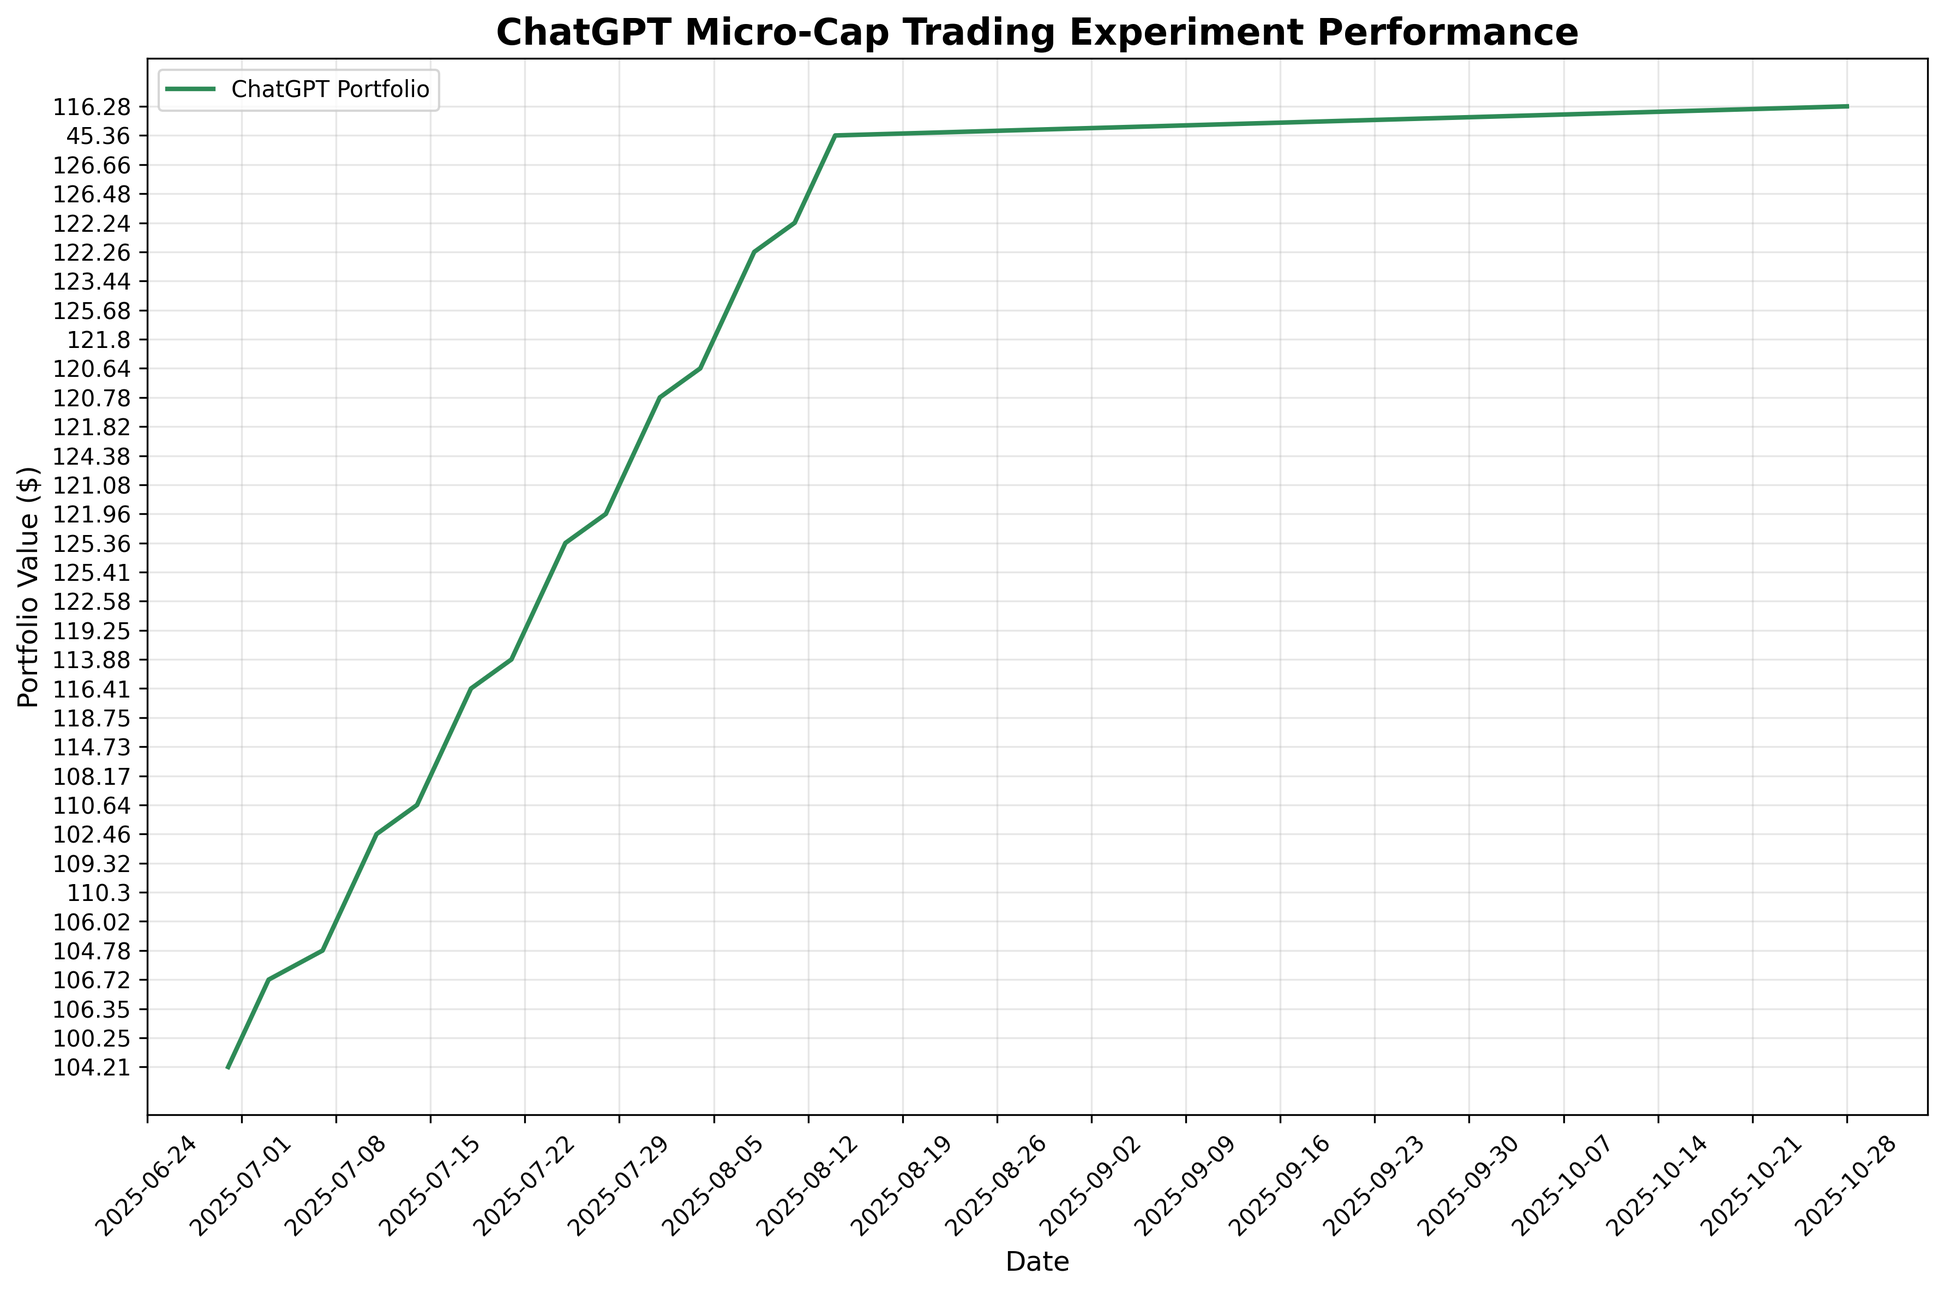
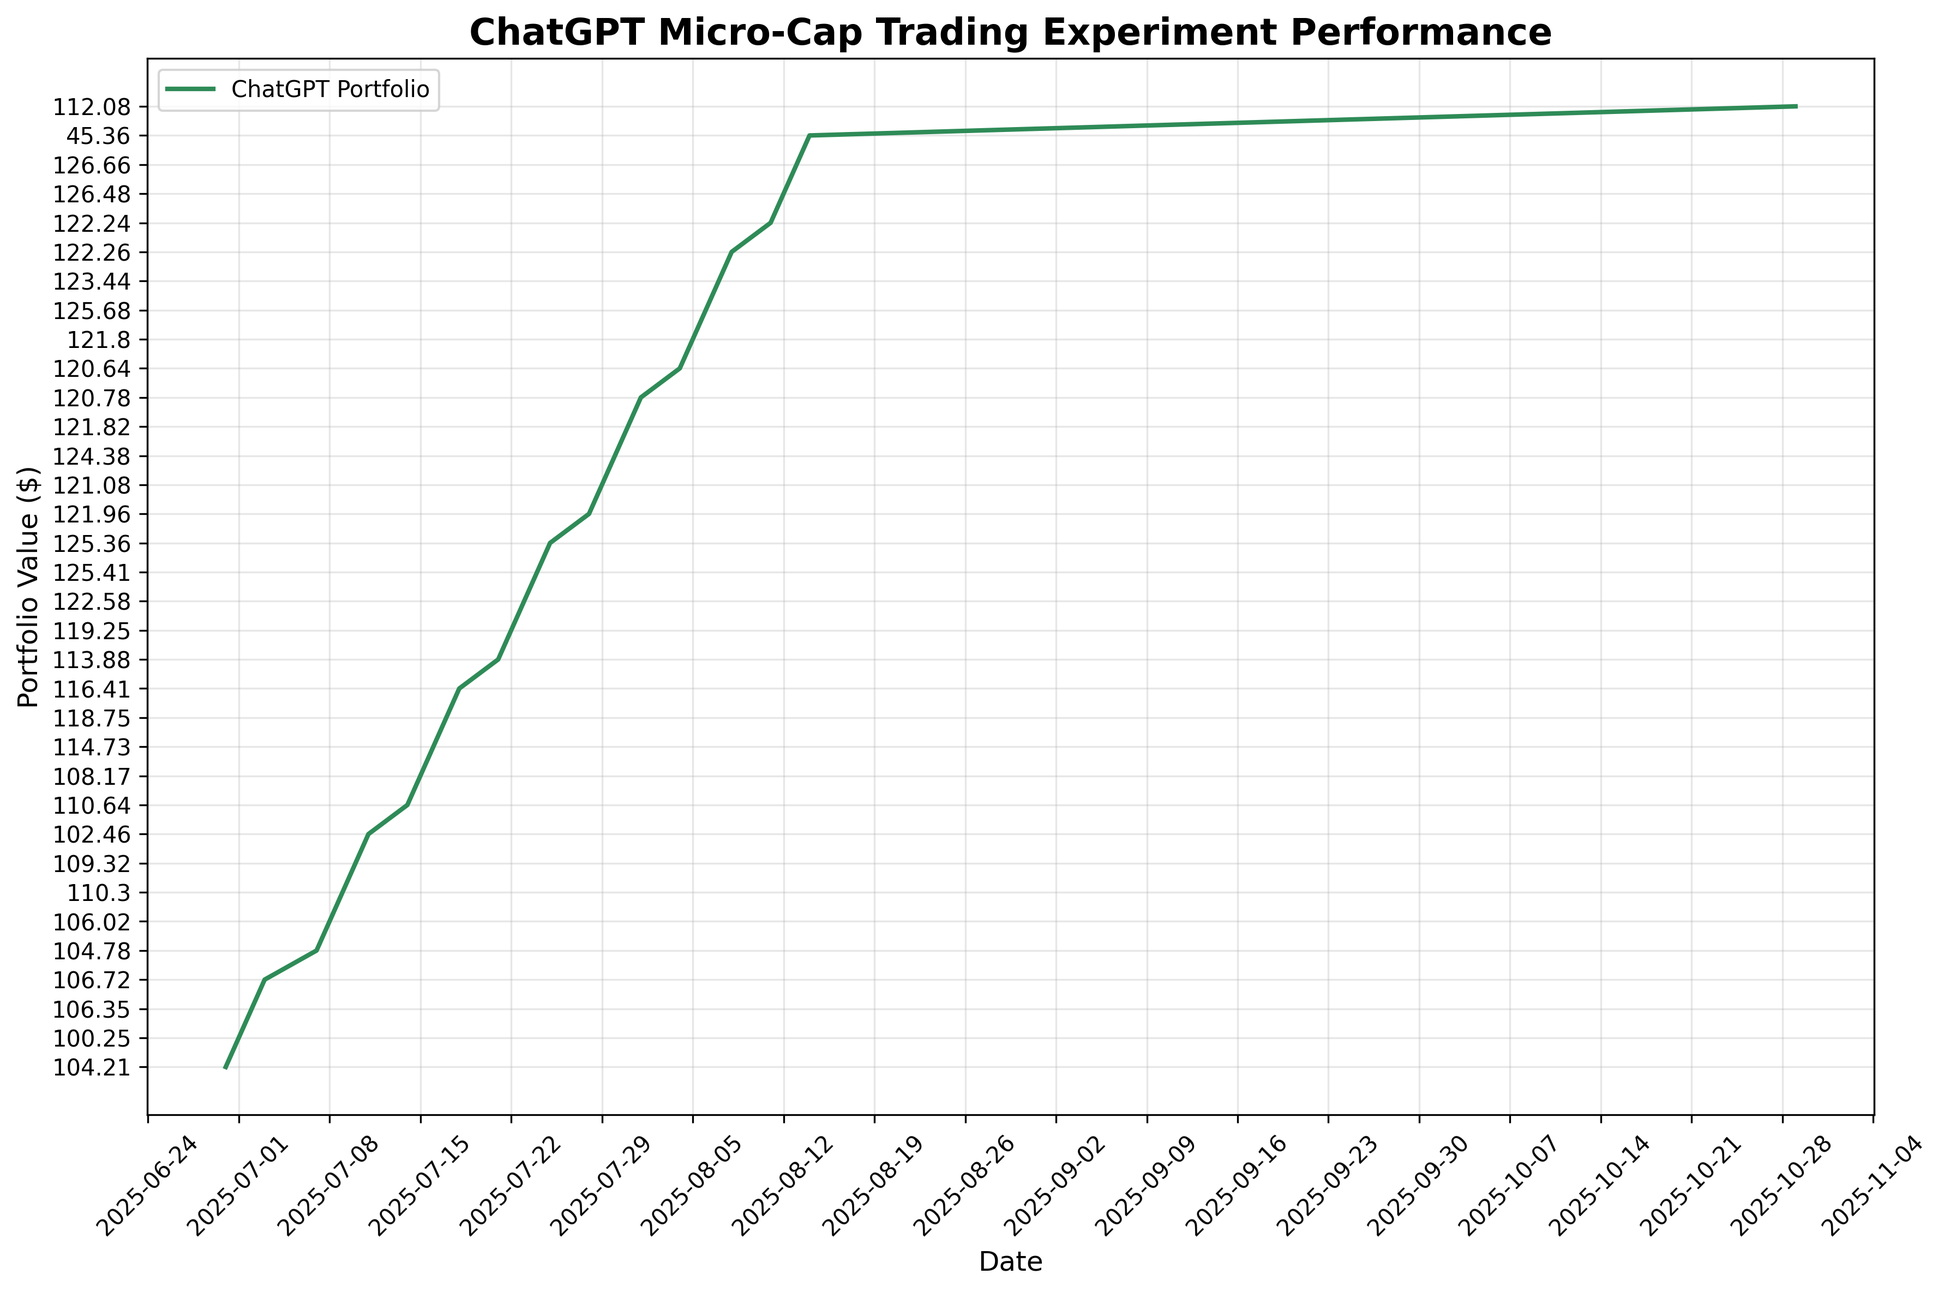
deploy: e15cad030d70fb3fbb51f9df6e22fa70c2f175c0

diff --git a/index.html b/index.html
@@ -105,7 +105,7 @@
                 <div class="stat-label">Total Trades</div>
             </div>
             <div class="stat-card">
-                <div class="stat-value" id="last-updated">2025-10-28</div>
+                <div class="stat-value" id="last-updated">2025-10-29</div>
                 <div class="stat-label">Last Updated</div>
             </div>
         </div>
@@ -160,7 +160,7 @@
     
     <script>
         // Portfolio data
-        const portfolioData = JSON.parse("[{&quot;Date&quot;: &quot;2025-08-11&quot;, &quot;Ticker&quot;: &quot;ABEO&quot;, &quot;Shares&quot;: 4.0, &quot;Buy Price&quot;: 5.77, &quot;Cost Basis&quot;: 23.08, &quot;Stop Loss&quot;: 4.9, &quot;Current Price&quot;: 6.28, &quot;Total Value&quot;: 25.12, &quot;PnL&quot;: 2.04, &quot;Action&quot;: &quot;HOLD&quot;, &quot;Cash Balance&quot;: NaN, &quot;Total Equity&quot;: NaN}, {&quot;Date&quot;: &quot;2025-08-11&quot;, &quot;Ticker&quot;: &quot;ACTU&quot;, &quot;Shares&quot;: 6.0, &quot;Buy Price&quot;: 5.75, &quot;Cost Basis&quot;: 34.5, &quot;Stop Loss&quot;: 4.89, &quot;Current Price&quot;: 8.01, &quot;Total Value&quot;: 48.06, &quot;PnL&quot;: 13.56, &quot;Action&quot;: &quot;HOLD&quot;, &quot;Cash Balance&quot;: NaN, &quot;Total Equity&quot;: NaN}, {&quot;Date&quot;: &quot;2025-08-11&quot;, &quot;Ticker&quot;: &quot;ESPR&quot;, &quot;Shares&quot;: 2.0, &quot;Buy Price&quot;: 1.91, &quot;Cost Basis&quot;: 3.82, &quot;Stop Loss&quot;: 1.6, &quot;Current Price&quot;: 1.85, &quot;Total Value&quot;: 3.7, &quot;PnL&quot;: -0.12, &quot;Action&quot;: &quot;HOLD&quot;, &quot;Cash Balance&quot;: NaN, &quot;Total Equity&quot;: NaN}, {&quot;Date&quot;: &quot;2025-08-11&quot;, &quot;Ticker&quot;: &quot;TOTAL&quot;, &quot;Shares&quot;: NaN, &quot;Buy Price&quot;: NaN, &quot;Cost Basis&quot;: NaN, &quot;Stop Loss&quot;: NaN, &quot;Current Price&quot;: NaN, &quot;Total Value&quot;: 76.88, &quot;PnL&quot;: 15.48, &quot;Action&quot;: NaN, &quot;Cash Balance&quot;: 45.36, &quot;Total Equity&quot;: &quot;122.24&quot;}, {&quot;Date&quot;: &quot;2025-08-12&quot;, &quot;Ticker&quot;: &quot;ABEO&quot;, &quot;Shares&quot;: 4.0, &quot;Buy Price&quot;: 5.77, &quot;Cost Basis&quot;: 23.08, &quot;Stop Loss&quot;: 4.9, &quot;Current Price&quot;: 6.38, &quot;Total Value&quot;: 25.52, &quot;PnL&quot;: 2.44, &quot;Action&quot;: &quot;HOLD&quot;, &quot;Cash Balance&quot;: NaN, &quot;Total Equity&quot;: NaN}, {&quot;Date&quot;: &quot;2025-08-12&quot;, &quot;Ticker&quot;: &quot;ACTU&quot;, &quot;Shares&quot;: 6.0, &quot;Buy Price&quot;: 5.75, &quot;Cost Basis&quot;: 34.5, &quot;Stop Loss&quot;: 4.89, &quot;Current Price&quot;: 8.67, &quot;Total Value&quot;: 52.02, &quot;PnL&quot;: 17.52, &quot;Action&quot;: &quot;HOLD&quot;, &quot;Cash Balance&quot;: NaN, &quot;Total Equity&quot;: NaN}, {&quot;Date&quot;: &quot;2025-08-12&quot;, &quot;Ticker&quot;: &quot;ESPR&quot;, &quot;Shares&quot;: 2.0, &quot;Buy Price&quot;: 1.91, &quot;Cost Basis&quot;: 3.82, &quot;Stop Loss&quot;: 1.6, &quot;Current Price&quot;: 1.79, &quot;Total Value&quot;: 3.58, &quot;PnL&quot;: -0.24, &quot;Action&quot;: &quot;HOLD&quot;, &quot;Cash Balance&quot;: NaN, &quot;Total Equity&quot;: NaN}, {&quot;Date&quot;: &quot;2025-08-12&quot;, &quot;Ticker&quot;: &quot;TOTAL&quot;, &quot;Shares&quot;: NaN, &quot;Buy Price&quot;: NaN, &quot;Cost Basis&quot;: NaN, &quot;Stop Loss&quot;: NaN, &quot;Current Price&quot;: NaN, &quot;Total Value&quot;: 81.12, &quot;PnL&quot;: 19.72, &quot;Action&quot;: NaN, &quot;Cash Balance&quot;: 45.36, &quot;Total Equity&quot;: &quot;126.48&quot;}, {&quot;Date&quot;: &quot;2025-08-13&quot;, &quot;Ticker&quot;: &quot;ABEO&quot;, &quot;Shares&quot;: 4.0, &quot;Buy Price&quot;: 5.77, &quot;Cost Basis&quot;: 23.08, &quot;Stop Loss&quot;: 4.9, &quot;Current Price&quot;: 6.56, &quot;Total Value&quot;: 26.24, &quot;PnL&quot;: 3.16, &quot;Action&quot;: &quot;HOLD&quot;, &quot;Cash Balance&quot;: NaN, &quot;Total Equity&quot;: NaN}, {&quot;Date&quot;: &quot;2025-08-13&quot;, &quot;Ticker&quot;: &quot;ACTU&quot;, &quot;Shares&quot;: 6.0, &quot;Buy Price&quot;: 5.75, &quot;Cost Basis&quot;: 34.5, &quot;Stop Loss&quot;: 4.89, &quot;Current Price&quot;: 8.53, &quot;Total Value&quot;: 51.18, &quot;PnL&quot;: 16.68, &quot;Action&quot;: &quot;HOLD&quot;, &quot;Cash Balance&quot;: NaN, &quot;Total Equity&quot;: NaN}, {&quot;Date&quot;: &quot;2025-08-13&quot;, &quot;Ticker&quot;: &quot;ESPR&quot;, &quot;Shares&quot;: 2.0, &quot;Buy Price&quot;: 1.91, &quot;Cost Basis&quot;: 3.82, &quot;Stop Loss&quot;: 1.6, &quot;Current Price&quot;: 1.94, &quot;Total Value&quot;: 3.88, &quot;PnL&quot;: 0.06, &quot;Action&quot;: &quot;HOLD&quot;, &quot;Cash Balance&quot;: NaN, &quot;Total Equity&quot;: NaN}, {&quot;Date&quot;: &quot;2025-08-13&quot;, &quot;Ticker&quot;: &quot;TOTAL&quot;, &quot;Shares&quot;: NaN, &quot;Buy Price&quot;: NaN, &quot;Cost Basis&quot;: NaN, &quot;Stop Loss&quot;: NaN, &quot;Current Price&quot;: NaN, &quot;Total Value&quot;: 81.3, &quot;PnL&quot;: 19.9, &quot;Action&quot;: NaN, &quot;Cash Balance&quot;: 45.36, &quot;Total Equity&quot;: &quot;126.66&quot;}, {&quot;Date&quot;: &quot;2025-08-14&quot;, &quot;Ticker&quot;: &quot;ABEO&quot;, &quot;Shares&quot;: 4.0, &quot;Buy Price&quot;: 5.77, &quot;Cost Basis&quot;: 23.08, &quot;Stop Loss&quot;: 4.9, &quot;Current Price&quot;: NaN, &quot;Total Value&quot;: NaN, &quot;PnL&quot;: NaN, &quot;Action&quot;: &quot;NO DATA&quot;, &quot;Cash Balance&quot;: NaN, &quot;Total Equity&quot;: NaN}, {&quot;Date&quot;: &quot;2025-08-14&quot;, &quot;Ticker&quot;: &quot;ACTU&quot;, &quot;Shares&quot;: 6.0, &quot;Buy Price&quot;: 5.75, &quot;Cost Basis&quot;: 34.5, &quot;Stop Loss&quot;: 4.89, &quot;Current Price&quot;: NaN, &quot;Total Value&quot;: NaN, &quot;PnL&quot;: NaN, &quot;Action&quot;: &quot;NO DATA&quot;, &quot;Cash Balance&quot;: NaN, &quot;Total Equity&quot;: NaN}, {&quot;Date&quot;: &quot;2025-08-14&quot;, &quot;Ticker&quot;: &quot;ESPR&quot;, &quot;Shares&quot;: 2.0, &quot;Buy Price&quot;: 1.91, &quot;Cost Basis&quot;: 3.82, &quot;Stop Loss&quot;: 1.6, &quot;Current Price&quot;: NaN, &quot;Total Value&quot;: NaN, &quot;PnL&quot;: NaN, &quot;Action&quot;: &quot;NO DATA&quot;, &quot;Cash Balance&quot;: NaN, &quot;Total Equity&quot;: NaN}, {&quot;Date&quot;: &quot;2025-08-14&quot;, &quot;Ticker&quot;: &quot;TOTAL&quot;, &quot;Shares&quot;: NaN, &quot;Buy Price&quot;: NaN, &quot;Cost Basis&quot;: NaN, &quot;Stop Loss&quot;: NaN, &quot;Current Price&quot;: NaN, &quot;Total Value&quot;: 0.0, &quot;PnL&quot;: 0.0, &quot;Action&quot;: NaN, &quot;Cash Balance&quot;: 45.36, &quot;Total Equity&quot;: &quot;45.36&quot;}, {&quot;Date&quot;: &quot;2025-10-28&quot;, &quot;Ticker&quot;: &quot;ABEO&quot;, &quot;Shares&quot;: 4.0, &quot;Buy Price&quot;: 5.77, &quot;Cost Basis&quot;: 23.08, &quot;Stop Loss&quot;: 4.9, &quot;Current Price&quot;: 5.49, &quot;Total Value&quot;: 21.96, &quot;PnL&quot;: -1.12, &quot;Action&quot;: &quot;HOLD&quot;, &quot;Cash Balance&quot;: NaN, &quot;Total Equity&quot;: NaN}, {&quot;Date&quot;: &quot;2025-10-28&quot;, &quot;Ticker&quot;: &quot;ACTU&quot;, &quot;Shares&quot;: 6.0, &quot;Buy Price&quot;: 5.75, &quot;Cost Basis&quot;: 34.5, &quot;Stop Loss&quot;: 4.89, &quot;Current Price&quot;: 7.14, &quot;Total Value&quot;: 42.84, &quot;PnL&quot;: 8.34, &quot;Action&quot;: &quot;HOLD&quot;, &quot;Cash Balance&quot;: NaN, &quot;Total Equity&quot;: NaN}, {&quot;Date&quot;: &quot;2025-10-28&quot;, &quot;Ticker&quot;: &quot;ESPR&quot;, &quot;Shares&quot;: 2.0, &quot;Buy Price&quot;: 1.91, &quot;Cost Basis&quot;: 3.82, &quot;Stop Loss&quot;: 1.6, &quot;Current Price&quot;: 3.06, &quot;Total Value&quot;: 6.12, &quot;PnL&quot;: 2.3, &quot;Action&quot;: &quot;HOLD&quot;, &quot;Cash Balance&quot;: NaN, &quot;Total Equity&quot;: NaN}, {&quot;Date&quot;: &quot;2025-10-28&quot;, &quot;Ticker&quot;: &quot;TOTAL&quot;, &quot;Shares&quot;: NaN, &quot;Buy Price&quot;: NaN, &quot;Cost Basis&quot;: NaN, &quot;Stop Loss&quot;: NaN, &quot;Current Price&quot;: NaN, &quot;Total Value&quot;: 70.92, &quot;PnL&quot;: 9.52, &quot;Action&quot;: NaN, &quot;Cash Balance&quot;: 45.36, &quot;Total Equity&quot;: &quot;116.28&quot;}]");
+        const portfolioData = JSON.parse("[{&quot;Date&quot;: &quot;2025-08-11&quot;, &quot;Ticker&quot;: &quot;ABEO&quot;, &quot;Shares&quot;: 4.0, &quot;Buy Price&quot;: 5.77, &quot;Cost Basis&quot;: 23.08, &quot;Stop Loss&quot;: 4.9, &quot;Current Price&quot;: 6.28, &quot;Total Value&quot;: 25.12, &quot;PnL&quot;: 2.04, &quot;Action&quot;: &quot;HOLD&quot;, &quot;Cash Balance&quot;: NaN, &quot;Total Equity&quot;: NaN}, {&quot;Date&quot;: &quot;2025-08-11&quot;, &quot;Ticker&quot;: &quot;ACTU&quot;, &quot;Shares&quot;: 6.0, &quot;Buy Price&quot;: 5.75, &quot;Cost Basis&quot;: 34.5, &quot;Stop Loss&quot;: 4.89, &quot;Current Price&quot;: 8.01, &quot;Total Value&quot;: 48.06, &quot;PnL&quot;: 13.56, &quot;Action&quot;: &quot;HOLD&quot;, &quot;Cash Balance&quot;: NaN, &quot;Total Equity&quot;: NaN}, {&quot;Date&quot;: &quot;2025-08-11&quot;, &quot;Ticker&quot;: &quot;ESPR&quot;, &quot;Shares&quot;: 2.0, &quot;Buy Price&quot;: 1.91, &quot;Cost Basis&quot;: 3.82, &quot;Stop Loss&quot;: 1.6, &quot;Current Price&quot;: 1.85, &quot;Total Value&quot;: 3.7, &quot;PnL&quot;: -0.12, &quot;Action&quot;: &quot;HOLD&quot;, &quot;Cash Balance&quot;: NaN, &quot;Total Equity&quot;: NaN}, {&quot;Date&quot;: &quot;2025-08-11&quot;, &quot;Ticker&quot;: &quot;TOTAL&quot;, &quot;Shares&quot;: NaN, &quot;Buy Price&quot;: NaN, &quot;Cost Basis&quot;: NaN, &quot;Stop Loss&quot;: NaN, &quot;Current Price&quot;: NaN, &quot;Total Value&quot;: 76.88, &quot;PnL&quot;: 15.48, &quot;Action&quot;: NaN, &quot;Cash Balance&quot;: 45.36, &quot;Total Equity&quot;: &quot;122.24&quot;}, {&quot;Date&quot;: &quot;2025-08-12&quot;, &quot;Ticker&quot;: &quot;ABEO&quot;, &quot;Shares&quot;: 4.0, &quot;Buy Price&quot;: 5.77, &quot;Cost Basis&quot;: 23.08, &quot;Stop Loss&quot;: 4.9, &quot;Current Price&quot;: 6.38, &quot;Total Value&quot;: 25.52, &quot;PnL&quot;: 2.44, &quot;Action&quot;: &quot;HOLD&quot;, &quot;Cash Balance&quot;: NaN, &quot;Total Equity&quot;: NaN}, {&quot;Date&quot;: &quot;2025-08-12&quot;, &quot;Ticker&quot;: &quot;ACTU&quot;, &quot;Shares&quot;: 6.0, &quot;Buy Price&quot;: 5.75, &quot;Cost Basis&quot;: 34.5, &quot;Stop Loss&quot;: 4.89, &quot;Current Price&quot;: 8.67, &quot;Total Value&quot;: 52.02, &quot;PnL&quot;: 17.52, &quot;Action&quot;: &quot;HOLD&quot;, &quot;Cash Balance&quot;: NaN, &quot;Total Equity&quot;: NaN}, {&quot;Date&quot;: &quot;2025-08-12&quot;, &quot;Ticker&quot;: &quot;ESPR&quot;, &quot;Shares&quot;: 2.0, &quot;Buy Price&quot;: 1.91, &quot;Cost Basis&quot;: 3.82, &quot;Stop Loss&quot;: 1.6, &quot;Current Price&quot;: 1.79, &quot;Total Value&quot;: 3.58, &quot;PnL&quot;: -0.24, &quot;Action&quot;: &quot;HOLD&quot;, &quot;Cash Balance&quot;: NaN, &quot;Total Equity&quot;: NaN}, {&quot;Date&quot;: &quot;2025-08-12&quot;, &quot;Ticker&quot;: &quot;TOTAL&quot;, &quot;Shares&quot;: NaN, &quot;Buy Price&quot;: NaN, &quot;Cost Basis&quot;: NaN, &quot;Stop Loss&quot;: NaN, &quot;Current Price&quot;: NaN, &quot;Total Value&quot;: 81.12, &quot;PnL&quot;: 19.72, &quot;Action&quot;: NaN, &quot;Cash Balance&quot;: 45.36, &quot;Total Equity&quot;: &quot;126.48&quot;}, {&quot;Date&quot;: &quot;2025-08-13&quot;, &quot;Ticker&quot;: &quot;ABEO&quot;, &quot;Shares&quot;: 4.0, &quot;Buy Price&quot;: 5.77, &quot;Cost Basis&quot;: 23.08, &quot;Stop Loss&quot;: 4.9, &quot;Current Price&quot;: 6.56, &quot;Total Value&quot;: 26.24, &quot;PnL&quot;: 3.16, &quot;Action&quot;: &quot;HOLD&quot;, &quot;Cash Balance&quot;: NaN, &quot;Total Equity&quot;: NaN}, {&quot;Date&quot;: &quot;2025-08-13&quot;, &quot;Ticker&quot;: &quot;ACTU&quot;, &quot;Shares&quot;: 6.0, &quot;Buy Price&quot;: 5.75, &quot;Cost Basis&quot;: 34.5, &quot;Stop Loss&quot;: 4.89, &quot;Current Price&quot;: 8.53, &quot;Total Value&quot;: 51.18, &quot;PnL&quot;: 16.68, &quot;Action&quot;: &quot;HOLD&quot;, &quot;Cash Balance&quot;: NaN, &quot;Total Equity&quot;: NaN}, {&quot;Date&quot;: &quot;2025-08-13&quot;, &quot;Ticker&quot;: &quot;ESPR&quot;, &quot;Shares&quot;: 2.0, &quot;Buy Price&quot;: 1.91, &quot;Cost Basis&quot;: 3.82, &quot;Stop Loss&quot;: 1.6, &quot;Current Price&quot;: 1.94, &quot;Total Value&quot;: 3.88, &quot;PnL&quot;: 0.06, &quot;Action&quot;: &quot;HOLD&quot;, &quot;Cash Balance&quot;: NaN, &quot;Total Equity&quot;: NaN}, {&quot;Date&quot;: &quot;2025-08-13&quot;, &quot;Ticker&quot;: &quot;TOTAL&quot;, &quot;Shares&quot;: NaN, &quot;Buy Price&quot;: NaN, &quot;Cost Basis&quot;: NaN, &quot;Stop Loss&quot;: NaN, &quot;Current Price&quot;: NaN, &quot;Total Value&quot;: 81.3, &quot;PnL&quot;: 19.9, &quot;Action&quot;: NaN, &quot;Cash Balance&quot;: 45.36, &quot;Total Equity&quot;: &quot;126.66&quot;}, {&quot;Date&quot;: &quot;2025-08-14&quot;, &quot;Ticker&quot;: &quot;ABEO&quot;, &quot;Shares&quot;: 4.0, &quot;Buy Price&quot;: 5.77, &quot;Cost Basis&quot;: 23.08, &quot;Stop Loss&quot;: 4.9, &quot;Current Price&quot;: NaN, &quot;Total Value&quot;: NaN, &quot;PnL&quot;: NaN, &quot;Action&quot;: &quot;NO DATA&quot;, &quot;Cash Balance&quot;: NaN, &quot;Total Equity&quot;: NaN}, {&quot;Date&quot;: &quot;2025-08-14&quot;, &quot;Ticker&quot;: &quot;ACTU&quot;, &quot;Shares&quot;: 6.0, &quot;Buy Price&quot;: 5.75, &quot;Cost Basis&quot;: 34.5, &quot;Stop Loss&quot;: 4.89, &quot;Current Price&quot;: NaN, &quot;Total Value&quot;: NaN, &quot;PnL&quot;: NaN, &quot;Action&quot;: &quot;NO DATA&quot;, &quot;Cash Balance&quot;: NaN, &quot;Total Equity&quot;: NaN}, {&quot;Date&quot;: &quot;2025-08-14&quot;, &quot;Ticker&quot;: &quot;ESPR&quot;, &quot;Shares&quot;: 2.0, &quot;Buy Price&quot;: 1.91, &quot;Cost Basis&quot;: 3.82, &quot;Stop Loss&quot;: 1.6, &quot;Current Price&quot;: NaN, &quot;Total Value&quot;: NaN, &quot;PnL&quot;: NaN, &quot;Action&quot;: &quot;NO DATA&quot;, &quot;Cash Balance&quot;: NaN, &quot;Total Equity&quot;: NaN}, {&quot;Date&quot;: &quot;2025-08-14&quot;, &quot;Ticker&quot;: &quot;TOTAL&quot;, &quot;Shares&quot;: NaN, &quot;Buy Price&quot;: NaN, &quot;Cost Basis&quot;: NaN, &quot;Stop Loss&quot;: NaN, &quot;Current Price&quot;: NaN, &quot;Total Value&quot;: 0.0, &quot;PnL&quot;: 0.0, &quot;Action&quot;: NaN, &quot;Cash Balance&quot;: 45.36, &quot;Total Equity&quot;: &quot;45.36&quot;}, {&quot;Date&quot;: &quot;2025-10-29&quot;, &quot;Ticker&quot;: &quot;ABEO&quot;, &quot;Shares&quot;: 4.0, &quot;Buy Price&quot;: 5.77, &quot;Cost Basis&quot;: 23.08, &quot;Stop Loss&quot;: 4.9, &quot;Current Price&quot;: 5.11, &quot;Total Value&quot;: 20.44, &quot;PnL&quot;: -2.64, &quot;Action&quot;: &quot;HOLD&quot;, &quot;Cash Balance&quot;: NaN, &quot;Total Equity&quot;: NaN}, {&quot;Date&quot;: &quot;2025-10-29&quot;, &quot;Ticker&quot;: &quot;ACTU&quot;, &quot;Shares&quot;: 6.0, &quot;Buy Price&quot;: 5.75, &quot;Cost Basis&quot;: 34.5, &quot;Stop Loss&quot;: 4.89, &quot;Current Price&quot;: 6.74, &quot;Total Value&quot;: 40.44, &quot;PnL&quot;: 5.94, &quot;Action&quot;: &quot;HOLD&quot;, &quot;Cash Balance&quot;: NaN, &quot;Total Equity&quot;: NaN}, {&quot;Date&quot;: &quot;2025-10-29&quot;, &quot;Ticker&quot;: &quot;ESPR&quot;, &quot;Shares&quot;: 2.0, &quot;Buy Price&quot;: 1.91, &quot;Cost Basis&quot;: 3.82, &quot;Stop Loss&quot;: 1.6, &quot;Current Price&quot;: 2.92, &quot;Total Value&quot;: 5.84, &quot;PnL&quot;: 2.02, &quot;Action&quot;: &quot;HOLD&quot;, &quot;Cash Balance&quot;: NaN, &quot;Total Equity&quot;: NaN}, {&quot;Date&quot;: &quot;2025-10-29&quot;, &quot;Ticker&quot;: &quot;TOTAL&quot;, &quot;Shares&quot;: NaN, &quot;Buy Price&quot;: NaN, &quot;Cost Basis&quot;: NaN, &quot;Stop Loss&quot;: NaN, &quot;Current Price&quot;: NaN, &quot;Total Value&quot;: 66.72, &quot;PnL&quot;: 5.32, &quot;Action&quot;: NaN, &quot;Cash Balance&quot;: 45.36, &quot;Total Equity&quot;: &quot;112.08&quot;}]");
         const tradeData = JSON.parse("[{&quot;Date&quot;: &quot;2025-07-07&quot;, &quot;Ticker&quot;: &quot;CSAI&quot;, &quot;Shares Bought&quot;: NaN, &quot;Buy Price&quot;: NaN, &quot;Cost Basis&quot;: 1.9, &quot;PnL&quot;: 5.7, &quot;Reason&quot;: &quot;MANUAL SELL - Rotated into AZTR&quot;, &quot;Shares Sold&quot;: 15.0, &quot;Sell Price&quot;: 2.28}, {&quot;Date&quot;: &quot;2025-07-08&quot;, &quot;Ticker&quot;: &quot;IINN&quot;, &quot;Shares Bought&quot;: 20.0, &quot;Buy Price&quot;: 1.5, &quot;Cost Basis&quot;: 30.0, &quot;PnL&quot;: 0.0, &quot;Reason&quot;: &quot;MANUAL BUY - New position&quot;, &quot;Shares Sold&quot;: NaN, &quot;Sell Price&quot;: NaN}, {&quot;Date&quot;: &quot;2025-07-21&quot;, &quot;Ticker&quot;: &quot;CADL&quot;, &quot;Shares Bought&quot;: NaN, &quot;Buy Price&quot;: NaN, &quot;Cost Basis&quot;: 25.2, &quot;PnL&quot;: 8.5, &quot;Reason&quot;: &quot;MANUAL SELL - GAIN CAPITAL FOR ACTU&quot;, &quot;Shares Sold&quot;: 5.0, &quot;Sell Price&quot;: 6.59}, {&quot;Date&quot;: &quot;2025-07-21&quot;, &quot;Ticker&quot;: &quot;ACTU&quot;, &quot;Shares Bought&quot;: 6.0, &quot;Buy Price&quot;: 5.75, &quot;Cost Basis&quot;: 34.5, &quot;PnL&quot;: 0.0, &quot;Reason&quot;: &quot;MANUAL BUY - New position&quot;, &quot;Shares Sold&quot;: NaN, &quot;Sell Price&quot;: NaN}, {&quot;Date&quot;: &quot;2025-07-28&quot;, &quot;Ticker&quot;: &quot;IINN&quot;, &quot;Shares Bought&quot;: NaN, &quot;Buy Price&quot;: NaN, &quot;Cost Basis&quot;: 9.0, &quot;PnL&quot;: -0.5400000000000009, &quot;Reason&quot;: &quot;MANUAL SELL - POSITION REDUCTION&quot;, &quot;Shares Sold&quot;: 6.0, &quot;Sell Price&quot;: 1.41}, {&quot;Date&quot;: &quot;2025-07-29&quot;, &quot;Ticker&quot;: &quot;AZTR&quot;, &quot;Shares Bought&quot;: NaN, &quot;Buy Price&quot;: NaN, &quot;Cost Basis&quot;: 13.75, &quot;PnL&quot;: -2.75, &quot;Reason&quot;: &quot;MANUAL SELL - DILUTION RISK&quot;, &quot;Shares Sold&quot;: 55.0, &quot;Sell Price&quot;: 0.2}, {&quot;Date&quot;: &quot;2025-08-01&quot;, &quot;Ticker&quot;: &quot;IINN&quot;, &quot;Shares Bought&quot;: 2.0, &quot;Buy Price&quot;: 1.74, &quot;Cost Basis&quot;: 3.48, &quot;PnL&quot;: 0.0, &quot;Reason&quot;: &quot;MANUAL BUY - New position&quot;, &quot;Shares Sold&quot;: NaN, &quot;Sell Price&quot;: NaN}, {&quot;Date&quot;: &quot;2025-08-01&quot;, &quot;Ticker&quot;: &quot;ABEO&quot;, &quot;Shares Bought&quot;: NaN, &quot;Buy Price&quot;: NaN, &quot;Cost Basis&quot;: 11.54, &quot;PnL&quot;: 1.200000000000001, &quot;Reason&quot;: &quot;MANUAL SELL - TRIM AFTER SUPPORT LOSS&quot;, &quot;Shares Sold&quot;: 2.0, &quot;Sell Price&quot;: 6.37}, {&quot;Date&quot;: &quot;2025-08-07&quot;, &quot;Ticker&quot;: &quot;ESPR&quot;, &quot;Shares Bought&quot;: 2.0, &quot;Buy Price&quot;: 1.91, &quot;Cost Basis&quot;: 3.82, &quot;PnL&quot;: 0.0, &quot;Reason&quot;: &quot;MANUAL BUY - New position&quot;, &quot;Shares Sold&quot;: NaN, &quot;Sell Price&quot;: NaN}, {&quot;Date&quot;: &quot;2025-08-08&quot;, &quot;Ticker&quot;: &quot;IINN&quot;, &quot;Shares Bought&quot;: NaN, &quot;Buy Price&quot;: NaN, &quot;Cost Basis&quot;: 1.5, &quot;PnL&quot;: -6.4, &quot;Reason&quot;: &quot;AUTOMATED SELL - STOPLOSS TRIGGERED&quot;, &quot;Shares Sold&quot;: 16.0, &quot;Sell Price&quot;: 1.1}]");
         
         // Update total equity
